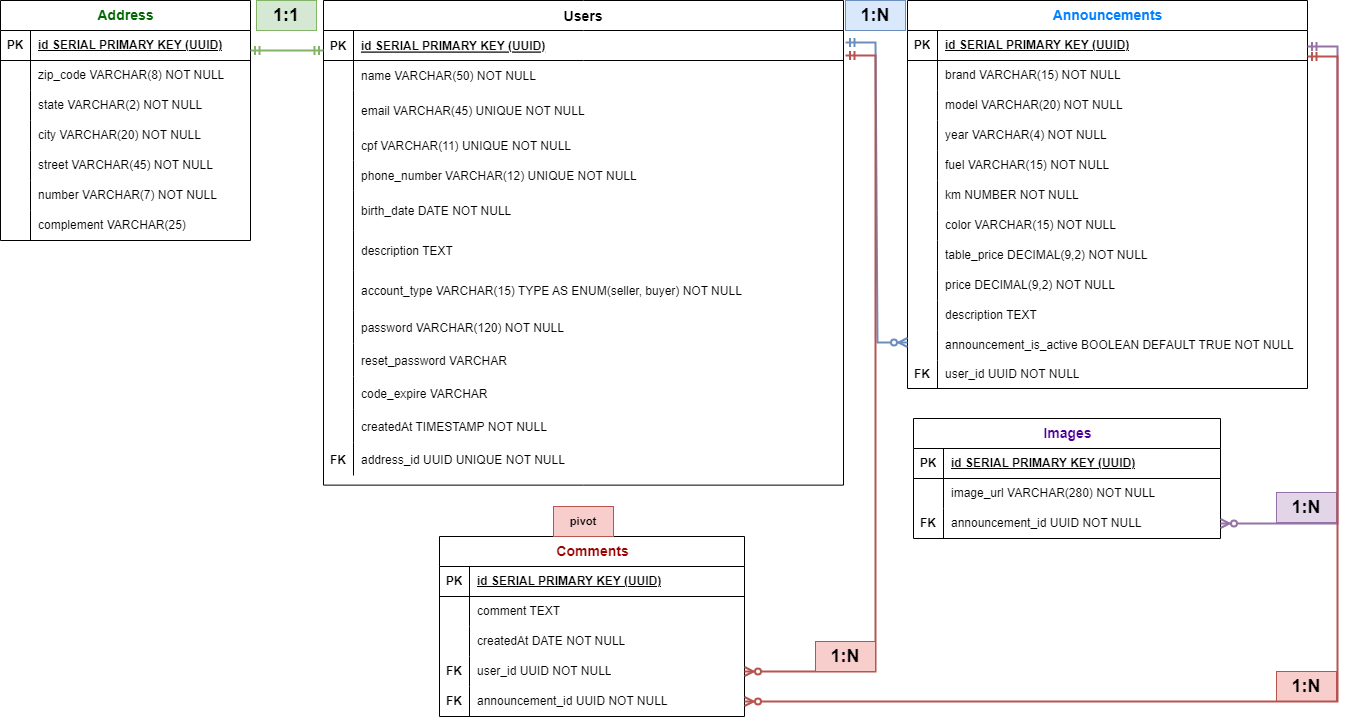
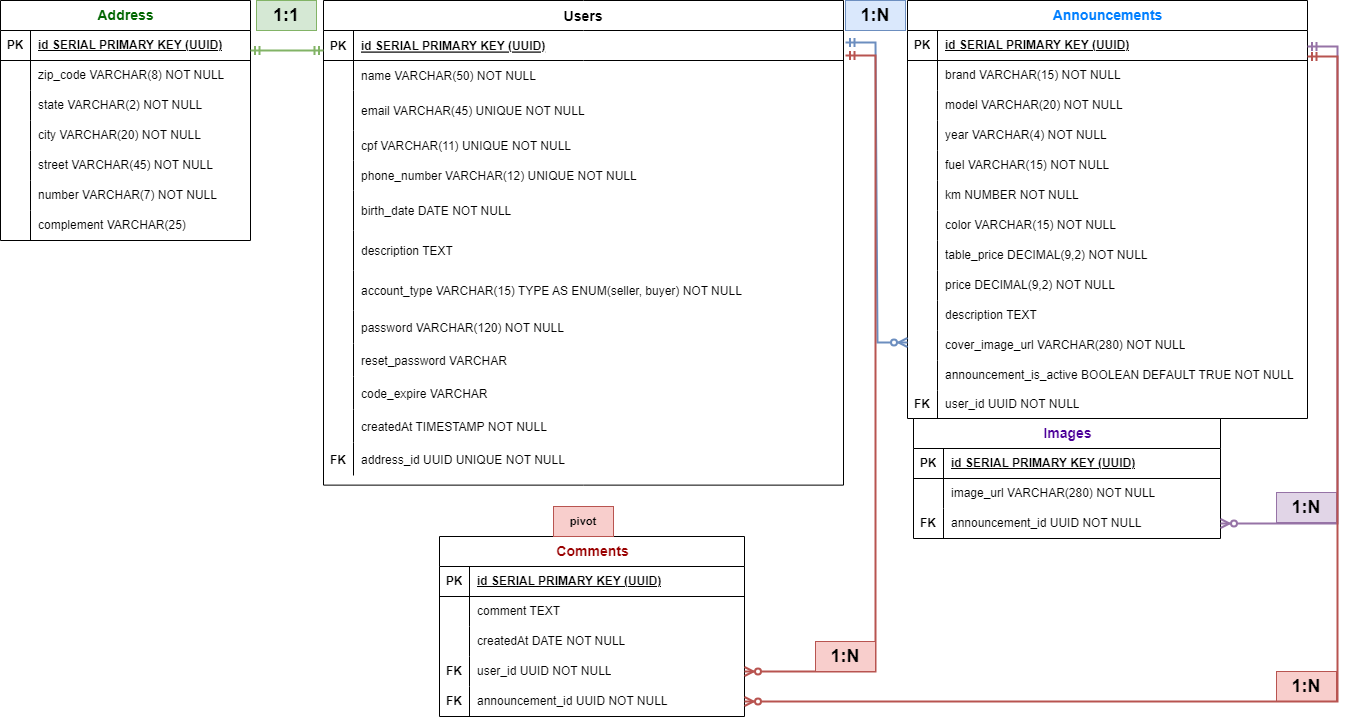
fix: update logic announcement service

diff --git a/src/migrations/1696604915564-createEntities.ts b/src/migrations/1696604915564-createEntities.ts
@@ -1,34 +1,34 @@
 import { MigrationInterface, QueryRunner } from "typeorm";
 
-export class CreateEntities1696479840371 implements MigrationInterface {
-    name = 'CreateEntities1696479840371'
+export class CreateEntities1696604915564 implements MigrationInterface {
+    name = 'CreateEntities1696604915564'
 
     public async up(queryRunner: QueryRunner): Promise<void> {
-        await queryRunner.query(`CREATE TABLE "address" ("id" uuid NOT NULL DEFAULT uuid_generate_v4(), "cep" character varying(8) NOT NULL, "state" character varying(2) NOT NULL, "city" character varying(20) NOT NULL, "street" character varying(45) NOT NULL, "number" character varying(7) NOT NULL, "complement" character varying(25), "userId" uuid, CONSTRAINT "REL_d25f1ea79e282cc8a42bd616aa" UNIQUE ("userId"), CONSTRAINT "PK_d92de1f82754668b5f5f5dd4fd5" PRIMARY KEY ("id"))`);
         await queryRunner.query(`CREATE TABLE "images" ("id" uuid NOT NULL DEFAULT uuid_generate_v4(), "image_url" character varying(280) NOT NULL, "announcementId" uuid, CONSTRAINT "PK_1fe148074c6a1a91b63cb9ee3c9" PRIMARY KEY ("id"))`);
-        await queryRunner.query(`CREATE TABLE "announcements" ("id" uuid NOT NULL DEFAULT uuid_generate_v4(), "brand" character varying(15) NOT NULL, "model" character varying(20) NOT NULL, "year" character varying NOT NULL, "fuel" character varying(15) NOT NULL, "km" integer NOT NULL, "color" character varying(15) NOT NULL, "table_price" numeric(9,2) NOT NULL DEFAULT '0', "price" numeric(9,2) NOT NULL DEFAULT '0', "description" text, "announcement_is_active" boolean NOT NULL DEFAULT true, "createdAt" TIMESTAMP NOT NULL DEFAULT now(), "userId" uuid, CONSTRAINT "PK_b3ad760876ff2e19d58e05dc8b0" PRIMARY KEY ("id"))`);
+        await queryRunner.query(`CREATE TABLE "comments" ("id" uuid NOT NULL DEFAULT uuid_generate_v4(), "comment" text NOT NULL, "createdAt" TIMESTAMP NOT NULL DEFAULT now(), "userId" uuid, "announcementId" uuid, CONSTRAINT "PK_8bf68bc960f2b69e818bdb90dcb" PRIMARY KEY ("id"))`);
+        await queryRunner.query(`CREATE TABLE "announcements" ("id" uuid NOT NULL DEFAULT uuid_generate_v4(), "brand" character varying(15) NOT NULL, "model" character varying(20) NOT NULL, "year" character varying NOT NULL, "fuel" character varying(15) NOT NULL, "km" integer NOT NULL, "color" character varying(15) NOT NULL, "table_price" numeric(9,2) NOT NULL DEFAULT '0', "price" numeric(9,2) NOT NULL DEFAULT '0', "description" text, "cover_image_url" character varying(280) NOT NULL, "announcement_is_active" boolean NOT NULL DEFAULT true, "createdAt" TIMESTAMP NOT NULL DEFAULT now(), "userId" uuid, CONSTRAINT "PK_b3ad760876ff2e19d58e05dc8b0" PRIMARY KEY ("id"))`);
         await queryRunner.query(`CREATE TYPE "public"."users_account_type_enum" AS ENUM('buyer', 'seller')`);
         await queryRunner.query(`CREATE TABLE "users" ("id" uuid NOT NULL DEFAULT uuid_generate_v4(), "name" character varying(50) NOT NULL, "email" character varying(45) NOT NULL, "cpf" character varying(11) NOT NULL, "phone_number" character varying(12) NOT NULL, "birth_date" date NOT NULL, "description" text, "account_type" "public"."users_account_type_enum" NOT NULL DEFAULT 'buyer', "password" character varying(120) NOT NULL, "reset_password" character varying, "code_expire" character varying, "createdAt" TIMESTAMP NOT NULL DEFAULT now(), CONSTRAINT "UQ_97672ac88f789774dd47f7c8be3" UNIQUE ("email"), CONSTRAINT "UQ_230b925048540454c8b4c481e1c" UNIQUE ("cpf"), CONSTRAINT "PK_a3ffb1c0c8416b9fc6f907b7433" PRIMARY KEY ("id"))`);
-        await queryRunner.query(`CREATE TABLE "comments" ("id" uuid NOT NULL DEFAULT uuid_generate_v4(), "comment" text NOT NULL, "createdAt" TIMESTAMP NOT NULL DEFAULT now(), "userId" uuid, "announcementId" uuid, CONSTRAINT "PK_8bf68bc960f2b69e818bdb90dcb" PRIMARY KEY ("id"))`);
-        await queryRunner.query(`ALTER TABLE "address" ADD CONSTRAINT "FK_d25f1ea79e282cc8a42bd616aa3" FOREIGN KEY ("userId") REFERENCES "users"("id") ON DELETE CASCADE ON UPDATE NO ACTION`);
+        await queryRunner.query(`CREATE TABLE "address" ("id" uuid NOT NULL DEFAULT uuid_generate_v4(), "cep" character varying(8) NOT NULL, "state" character varying(2) NOT NULL, "city" character varying(20) NOT NULL, "street" character varying(45) NOT NULL, "number" character varying(7) NOT NULL, "complement" character varying(25), "userId" uuid, CONSTRAINT "REL_d25f1ea79e282cc8a42bd616aa" UNIQUE ("userId"), CONSTRAINT "PK_d92de1f82754668b5f5f5dd4fd5" PRIMARY KEY ("id"))`);
         await queryRunner.query(`ALTER TABLE "images" ADD CONSTRAINT "FK_fac6198a89ec23116ca0352104d" FOREIGN KEY ("announcementId") REFERENCES "announcements"("id") ON DELETE CASCADE ON UPDATE NO ACTION`);
-        await queryRunner.query(`ALTER TABLE "announcements" ADD CONSTRAINT "FK_1968b95a7c6d64a81b1b3b5aad4" FOREIGN KEY ("userId") REFERENCES "users"("id") ON DELETE CASCADE ON UPDATE NO ACTION`);
         await queryRunner.query(`ALTER TABLE "comments" ADD CONSTRAINT "FK_7e8d7c49f218ebb14314fdb3749" FOREIGN KEY ("userId") REFERENCES "users"("id") ON DELETE SET NULL ON UPDATE NO ACTION`);
         await queryRunner.query(`ALTER TABLE "comments" ADD CONSTRAINT "FK_2bf4aa41d384038daf10e39a8e8" FOREIGN KEY ("announcementId") REFERENCES "announcements"("id") ON DELETE SET NULL ON UPDATE NO ACTION`);
+        await queryRunner.query(`ALTER TABLE "announcements" ADD CONSTRAINT "FK_1968b95a7c6d64a81b1b3b5aad4" FOREIGN KEY ("userId") REFERENCES "users"("id") ON DELETE CASCADE ON UPDATE NO ACTION`);
+        await queryRunner.query(`ALTER TABLE "address" ADD CONSTRAINT "FK_d25f1ea79e282cc8a42bd616aa3" FOREIGN KEY ("userId") REFERENCES "users"("id") ON DELETE CASCADE ON UPDATE NO ACTION`);
     }
 
     public async down(queryRunner: QueryRunner): Promise<void> {
+        await queryRunner.query(`ALTER TABLE "address" DROP CONSTRAINT "FK_d25f1ea79e282cc8a42bd616aa3"`);
+        await queryRunner.query(`ALTER TABLE "announcements" DROP CONSTRAINT "FK_1968b95a7c6d64a81b1b3b5aad4"`);
         await queryRunner.query(`ALTER TABLE "comments" DROP CONSTRAINT "FK_2bf4aa41d384038daf10e39a8e8"`);
         await queryRunner.query(`ALTER TABLE "comments" DROP CONSTRAINT "FK_7e8d7c49f218ebb14314fdb3749"`);
-        await queryRunner.query(`ALTER TABLE "announcements" DROP CONSTRAINT "FK_1968b95a7c6d64a81b1b3b5aad4"`);
         await queryRunner.query(`ALTER TABLE "images" DROP CONSTRAINT "FK_fac6198a89ec23116ca0352104d"`);
-        await queryRunner.query(`ALTER TABLE "address" DROP CONSTRAINT "FK_d25f1ea79e282cc8a42bd616aa3"`);
-        await queryRunner.query(`DROP TABLE "comments"`);
+        await queryRunner.query(`DROP TABLE "address"`);
         await queryRunner.query(`DROP TABLE "users"`);
         await queryRunner.query(`DROP TYPE "public"."users_account_type_enum"`);
         await queryRunner.query(`DROP TABLE "announcements"`);
+        await queryRunner.query(`DROP TABLE "comments"`);
         await queryRunner.query(`DROP TABLE "images"`);
-        await queryRunner.query(`DROP TABLE "address"`);
     }
 
 }

diff --git a/src/services/announcements/updateAnnouncement.service.ts b/src/services/announcements/updateAnnouncement.service.ts
@@ -1,9 +1,8 @@
 import { Announcement } from '../../entities';
 import { AppError } from '../../errors/error';
-import { TAnnouncementUpdate } from '../../interfaces/announcement.interfaces';
 import { announcementRepo, imageRepo } from '../../repositories';
 
-export const updateAnnouncementService = async (announcementId: string, announcementData: TAnnouncementUpdate) => {
+export const updateAnnouncementService = async (announcementId: string, announcementData: Announcement) => {
   const oldAnnouncement: Announcement | null = await announcementRepo.findOne({
     where: { id: announcementId },
     relations: { images: true, user: true },
@@ -19,7 +18,9 @@ export const updateAnnouncementService = async (announcementId: string, announce
   });
   await announcementRepo.save(announcement);
 
-  for await (const image of announcementData.images!) {
+  const updatedImages = [...announcementData.images, ...oldAnnouncement.images];
+
+  for await (const image of updatedImages) {
     const imageUpdated = imageRepo.create({
       image_url: image.image_url!,
       announcement: announcement,

diff --git a/src/schemas/announcement.schema.ts b/src/schemas/announcement.schema.ts
@@ -20,6 +20,7 @@ export const announcementSchema = z.object({
     .default(() => 0)
     .or(z.string()),
   description: z.string().nullish(),
+  cover_image_url: z.string().max(280),
   announcement_is_active: z.boolean().default(true),
   createdAt: z.string().or(z.date()),
 });
@@ -71,6 +72,7 @@ export const announcementReadSchema = z
         name: z.string().max(50),
       })
       .optional(),
+    cover_image_url: z.string().max(280),
     images: z
       .object({
         id: z.string(),

diff --git a/src/services/users/sendEmailWithCode.service.ts b/src/services/users/sendEmailWithCode.service.ts
@@ -11,6 +11,7 @@ export const sendEmailWithCodeService = async (email: string) => {
 
   const resetUserCode = crypto.randomBytes(4).toString('hex');
   const nowInMinutes: any = new Date().getHours() * 60 + new Date().getMinutes();
+  const createCode: any = new Date().toLocaleTimeString();
 
   await userRepo.save({
     ...user,

diff --git a/src/entities/announcements.entity.ts b/src/entities/announcements.entity.ts
@@ -35,6 +35,9 @@ class Announcement {
   @Column({ type: 'text', nullable: true, default: null })
   description?: string | undefined | null;
 
+  @Column({ type: 'varchar', length: '280' })
+  cover_image_url: string;
+
   @Column({ default: true })
   announcement_is_active: boolean;
 
